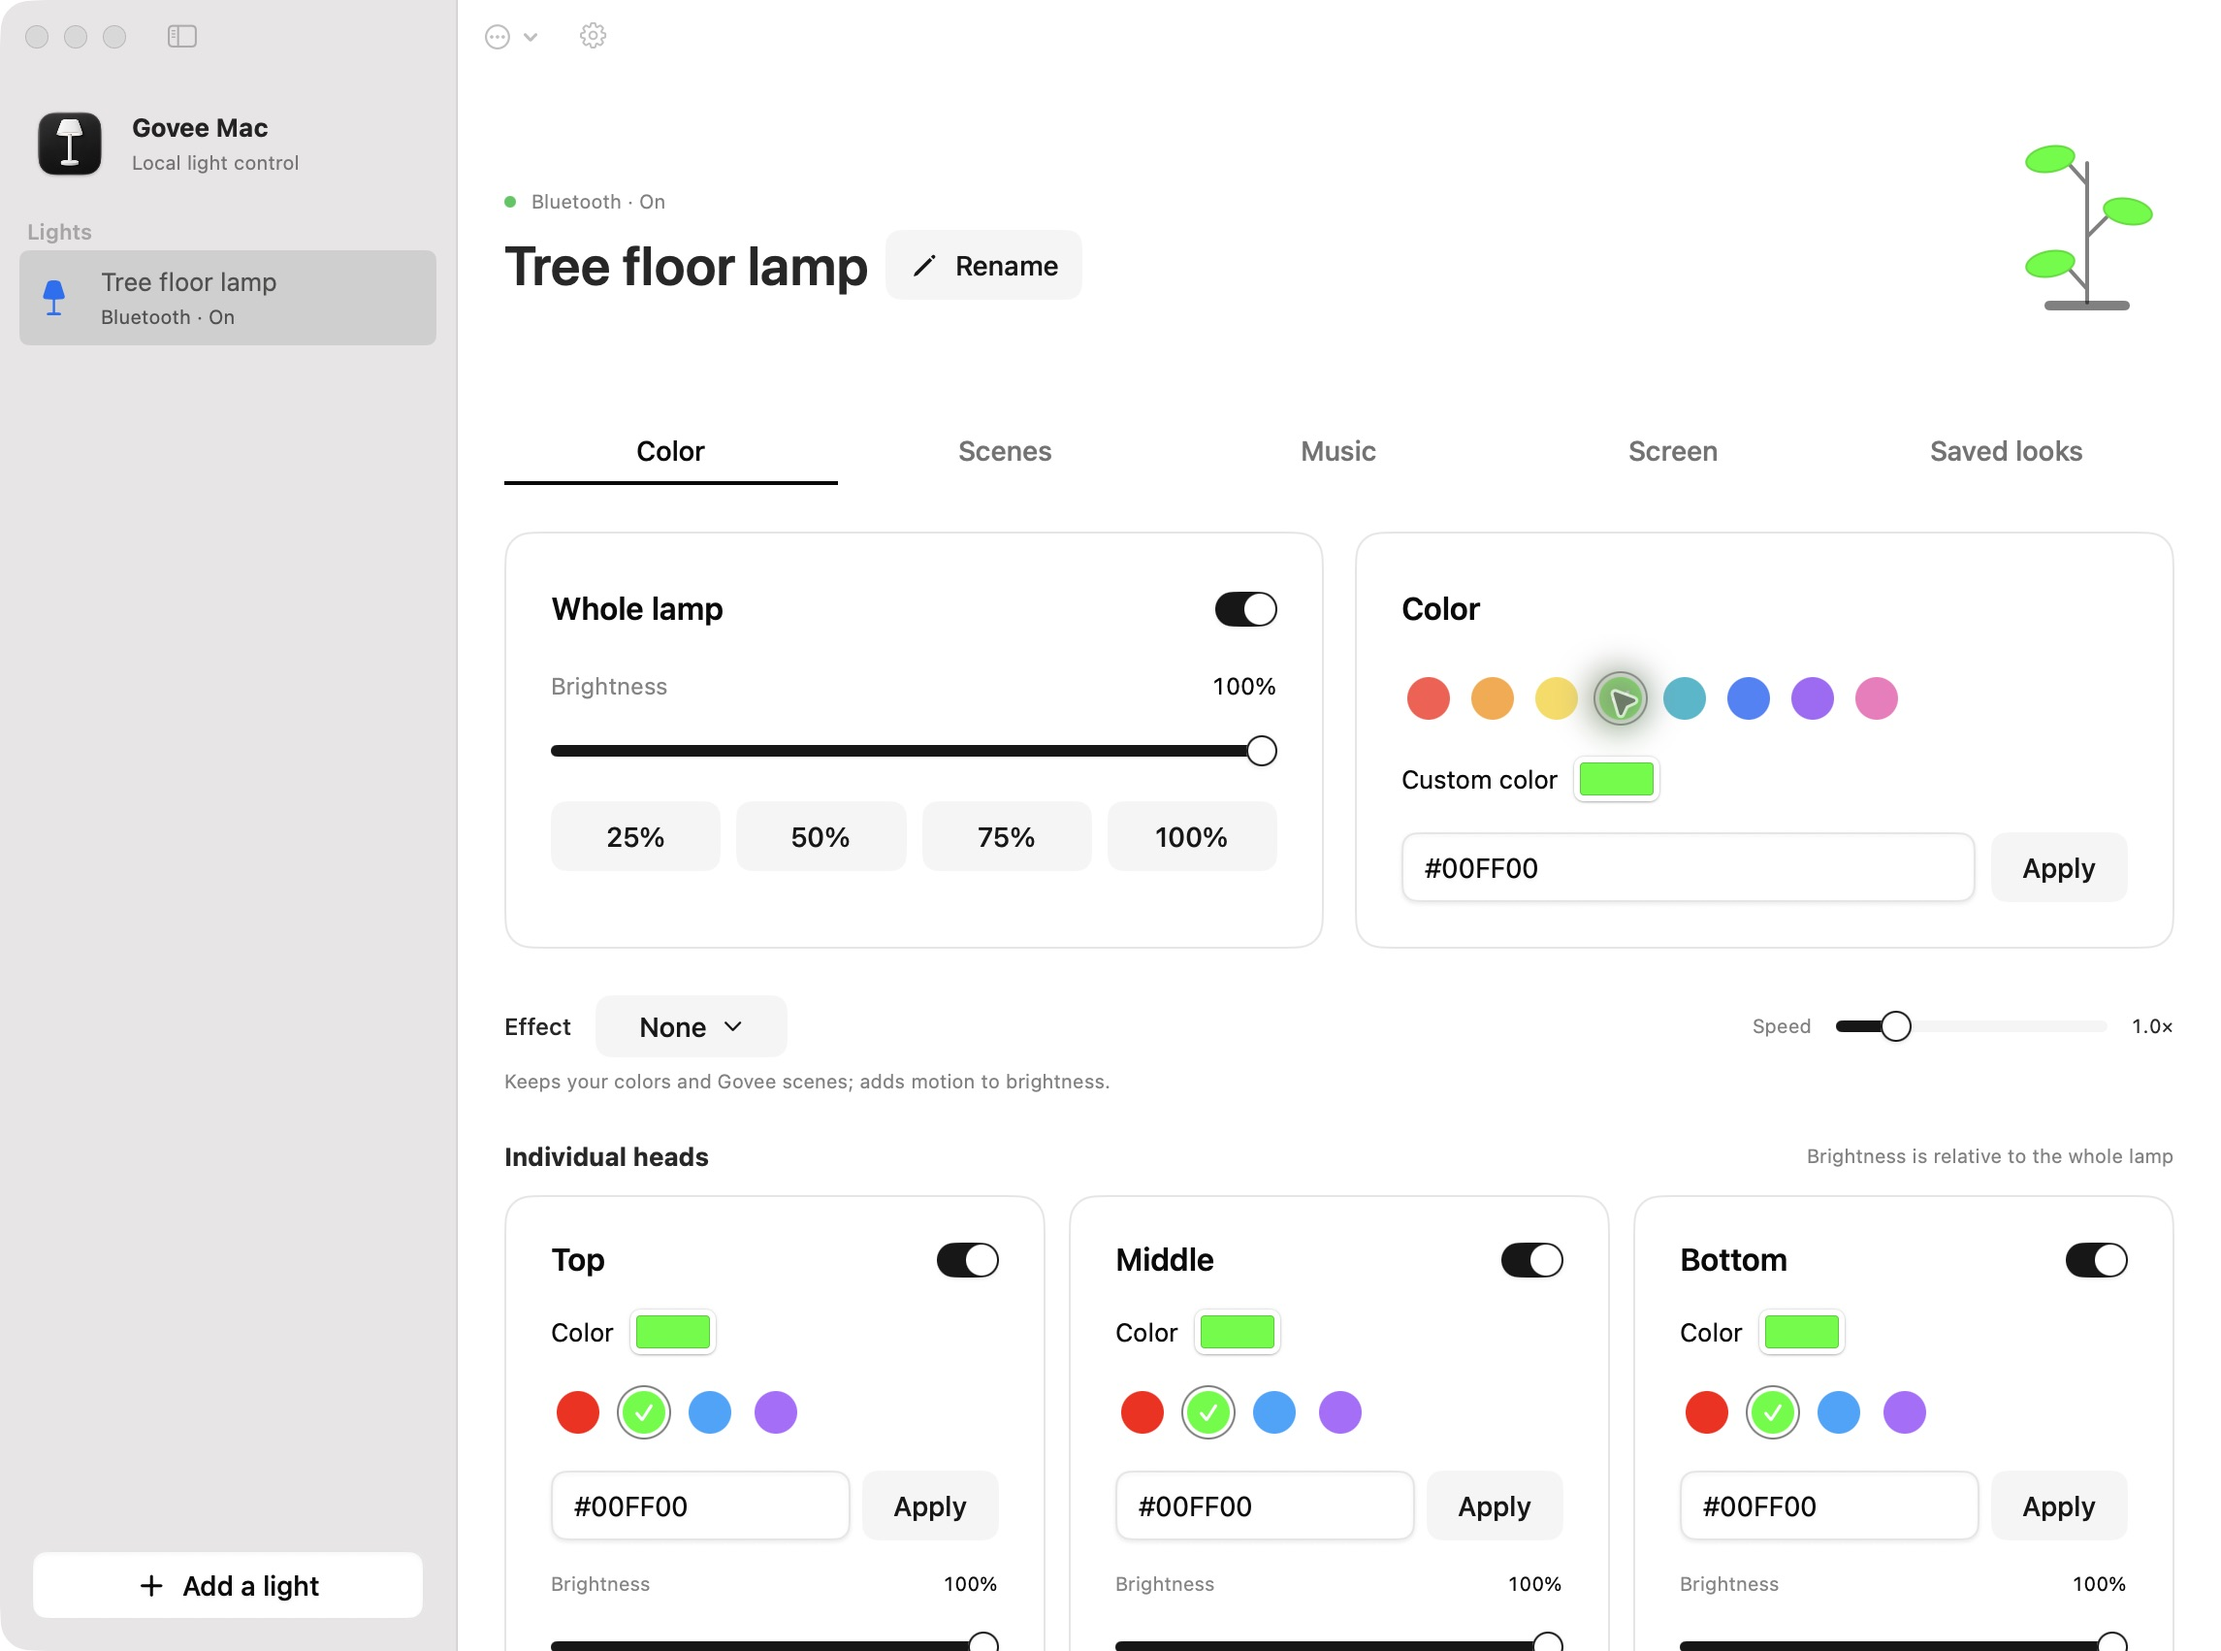
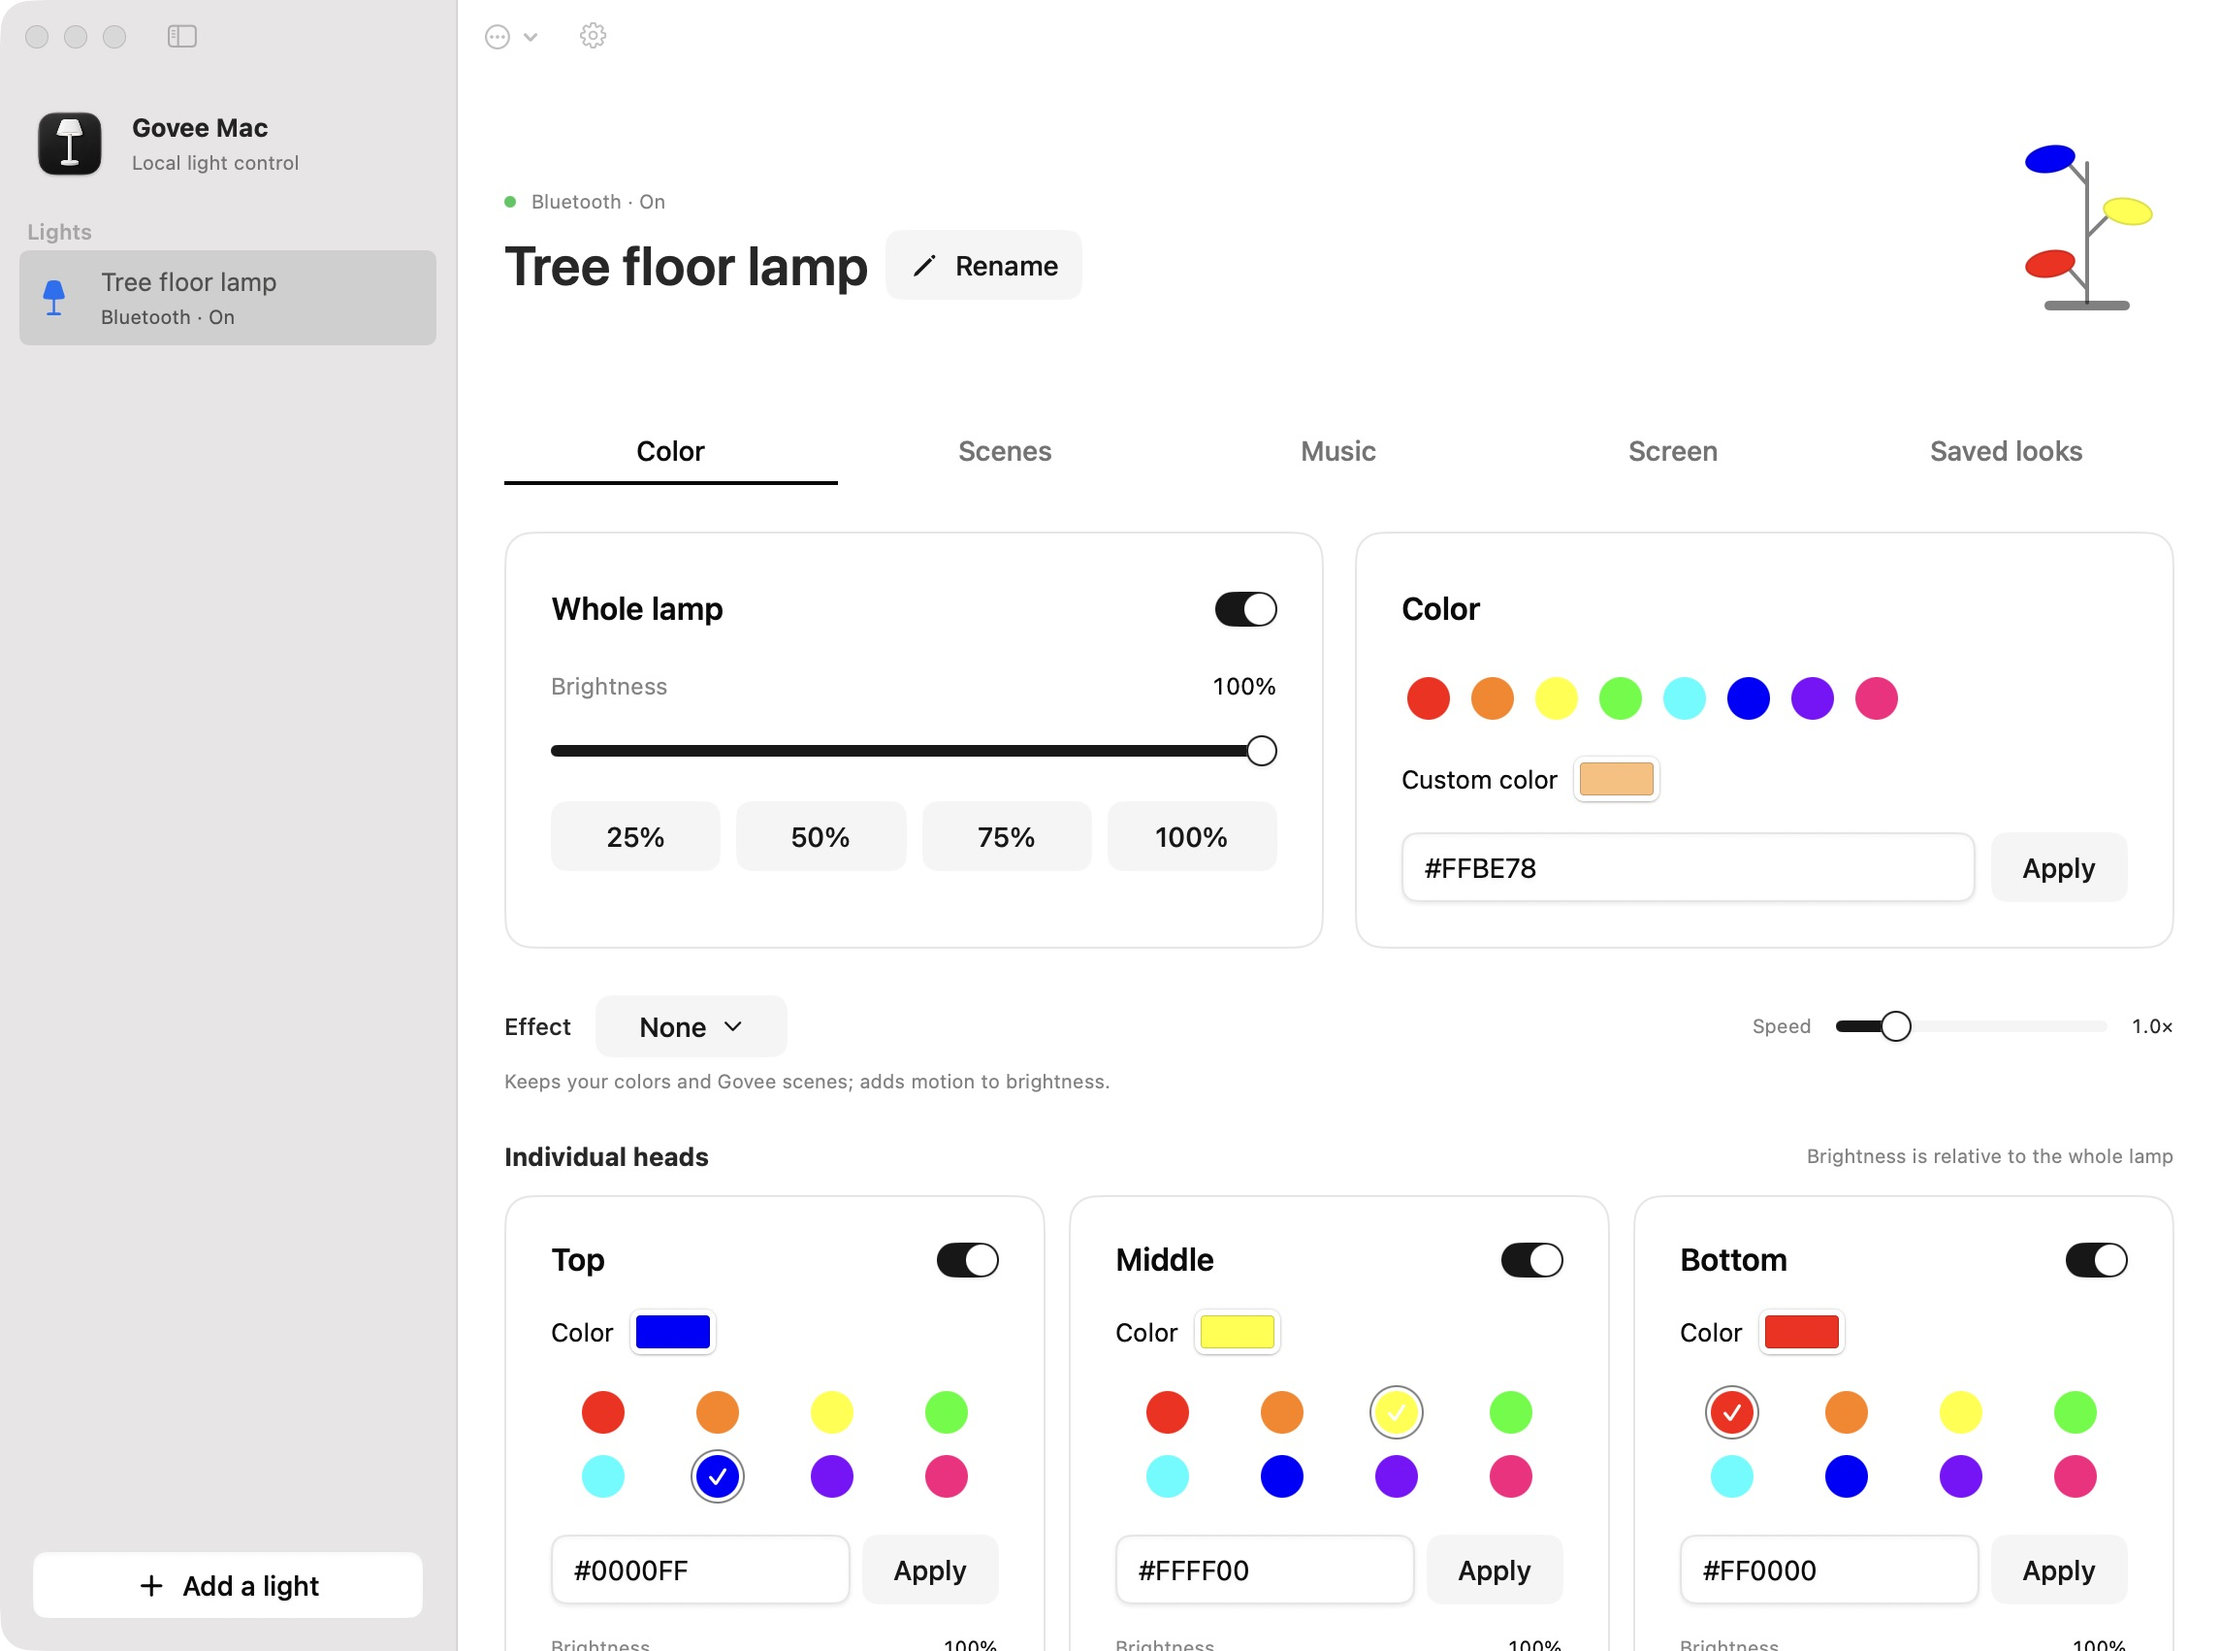
Share accurate RGB color shortcuts across all lamp controls

diff --git a/Sources/GoveeMac/Views/HeadControlsView.swift b/Sources/GoveeMac/Views/HeadControlsView.swift
@@ -26,7 +26,6 @@ private struct HeadControlCard: View {
     @State private var hex: String
     @State private var hexEdited = false
     @State private var editingBrightness = false
-    private let colors = [RGB(255,0,0), RGB(0,255,0), RGB(36,165,255), RGB(174,107,255)]
     init(store: LightStore, device: LightDevice, head: LightHeadState) {
         self.store = store; self.device = device; self.head = head
         _draft = State(initialValue: head); _hex = State(initialValue: head.color.hex)
@@ -41,8 +40,11 @@ private struct HeadControlCard: View {
                     .accessibilityLabel("\(label) power")
             }
             ColorPicker("Color", selection: Binding(get: { draft.color.swiftUIColor }, set: { setColor(RGB(color: $0), debounce: true) }), supportsOpacity: false).accessibilityLabel("\(label) color")
-            HStack(spacing: 6) {
-                ForEach(colors, id: \.hex) { color in ColorSwatch(color: color, selected: draft.color == color, label: "\(label) set color \(color.hex)") { setColor(color) } }
+            LazyVGrid(columns: Array(repeating: GridItem(.flexible(minimum: 28), spacing: 5), count: 4), spacing: 5) {
+                ForEach(ColorShortcut.all) { shortcut in
+                    ColorSwatch(color: shortcut.color, selected: draft.color == shortcut.color,
+                                label: "\(label) set \(shortcut.title)") { setColor(shortcut.color) }
+                }
             }
             HStack(spacing: 6) {
                 ShadcnTextField("#RRGGBB", text: Binding(get: { hex }, set: { hex = $0; hexEdited = true }), onSubmit: applyHex)

diff --git a/Sources/GoveeMac/Views/LightControlsView.swift b/Sources/GoveeMac/Views/LightControlsView.swift
@@ -12,7 +12,6 @@ struct LightControlsView: View {
     @State private var white = false
     @State private var hex = ""
     @State private var hexEdited = false
-    private let swatches: [RGB] = [RGB(255,86,76), RGB(255,167,64), RGB(250,218,82), RGB(0,255,0), RGB(40,185,205), RGB(68,132,250), RGB(165,104,250), RGB(247,119,191)]
     var body: some View {
         EqualHeightColumns {
             ControlPanel(fillsHeight: true) {
@@ -56,7 +55,10 @@ struct LightControlsView: View {
                     ShadcnButton("Apply white", variant: .secondary, size: .small) { store.send(.temperature(Int(temperature)), to: device.id) }
                 } else {
                     ShadcnWrapLayout(spacing: 5) {
-                        ForEach(swatches, id: \.hex) { rgb in ColorSwatch(color: rgb, selected: device.state.color == rgb) { setColor(rgb) } }
+                        ForEach(ColorShortcut.all) { shortcut in
+                            ColorSwatch(color: shortcut.color, selected: device.state.color == shortcut.color,
+                                        label: "Set \(shortcut.title)") { setColor(shortcut.color) }
+                        }
                     }
                     ColorPicker("Custom color", selection: Binding(get: { device.state.color.swiftUIColor }, set: { setColor(RGB(color: $0), debounce: true) }), supportsOpacity: false)
                     HStack(spacing: 8) {

diff --git a/Sources/GoveeMac/Support/ColorShortcuts.swift b/Sources/GoveeMac/Support/ColorShortcuts.swift
@@ -1,0 +1,21 @@
+import GoveeKit
+
+/// Lighting colors shared by the whole-lamp and individual-head controls.
+/// Use saturated RGB values instead of pastel UI accent colors.
+struct ColorShortcut: Identifiable {
+    let name: String
+    let color: RGB
+    var id: String { name }
+    var title: String { "\(name) (\(color.hex))" }
+
+    static let all: [ColorShortcut] = [
+        .init(name: "Red", color: RGB(255, 0, 0)),
+        .init(name: "Orange", color: RGB(255, 128, 0)),
+        .init(name: "Yellow", color: RGB(255, 255, 0)),
+        .init(name: "Green", color: RGB(0, 255, 0)),
+        .init(name: "Cyan", color: RGB(0, 255, 255)),
+        .init(name: "Blue", color: RGB(0, 0, 255)),
+        .init(name: "Purple", color: RGB(128, 0, 255)),
+        .init(name: "Pink", color: RGB(255, 0, 128))
+    ]
+}

diff --git a/Sources/GoveeMac/Views/ColorSwatch.swift b/Sources/GoveeMac/Views/ColorSwatch.swift
@@ -17,6 +17,6 @@ struct ColorSwatch: View {
         }.buttonStyle(.plain)
             .accessibilityLabel(label ?? "Set color \(color.hex)")
             .accessibilityAddTraits(selected ? .isSelected : [])
-            .help(color.hex)
+            .help(label ?? color.hex)
     }
 }

diff --git a/README.md b/README.md
@@ -94,7 +94,7 @@ Page tabs share equal widths, type size, and height. Their buttons compose ShadK
 
 Rename is centered beside the light's title, with the page tabs directly below the header. The selected scene is marked on its card. Sliders hide the rectangular focus highlight while retaining keyboard and accessibility adjustment.
 
-The green shortcuts for the whole lamp and each head send pure green (`#00FF00`), with no red or blue component.
+The whole lamp and each head share eight named color shortcuts: red `#FF0000`, orange `#FF8000`, yellow `#FFFF00`, green `#00FF00`, cyan `#00FFFF`, blue `#0000FF`, purple `#8000FF`, and pink `#FF0080`. Their swatches display the RGB values they send, and tooltips show the name and hex value. Each head offers the full palette in two equal rows of four. Custom colors retain the exact RGB value you choose.
 
 Unchanged Bluetooth keepalives do not refresh device data. Each streamed three-head frame updates the editor once, and transient brightness effects keep the editor at the user's chosen brightness ceiling. The scene browser depends on the model and availability instead of live RGB values. These changes reduce unnecessary SwiftUI updates; scroll frame timing has not been measured.
 

diff --git a/docs/SCENES-AND-SYNC.md b/docs/SCENES-AND-SYNC.md
@@ -94,9 +94,12 @@ displays after connecting or removing a monitor.
 
 ## Release validation
 
-Pure green (`#00FF00`) was physically confirmed on all three H60B2 heads. The
-whole-lamp and individual-head green shortcuts now use that color, replacing
-the previous mint shortcut (`#49C885`), which included blue.
+The whole-lamp and individual-head controls use one shared palette of eight
+saturated RGB colors. All 32 shortcut applications were checked through the
+running app: each requested the expected hex color, and an individual-head
+edit retained the other heads' colors. Pure green (`#00FF00`) was physically
+confirmed on all three H60B2 heads. These software checks do not establish
+physical color accuracy for every shortcut.
 
 The H60B2 Aurora scene was physically confirmed animating. Both system audio
 and microphone capture produced nonzero frequency-band energy and changing
